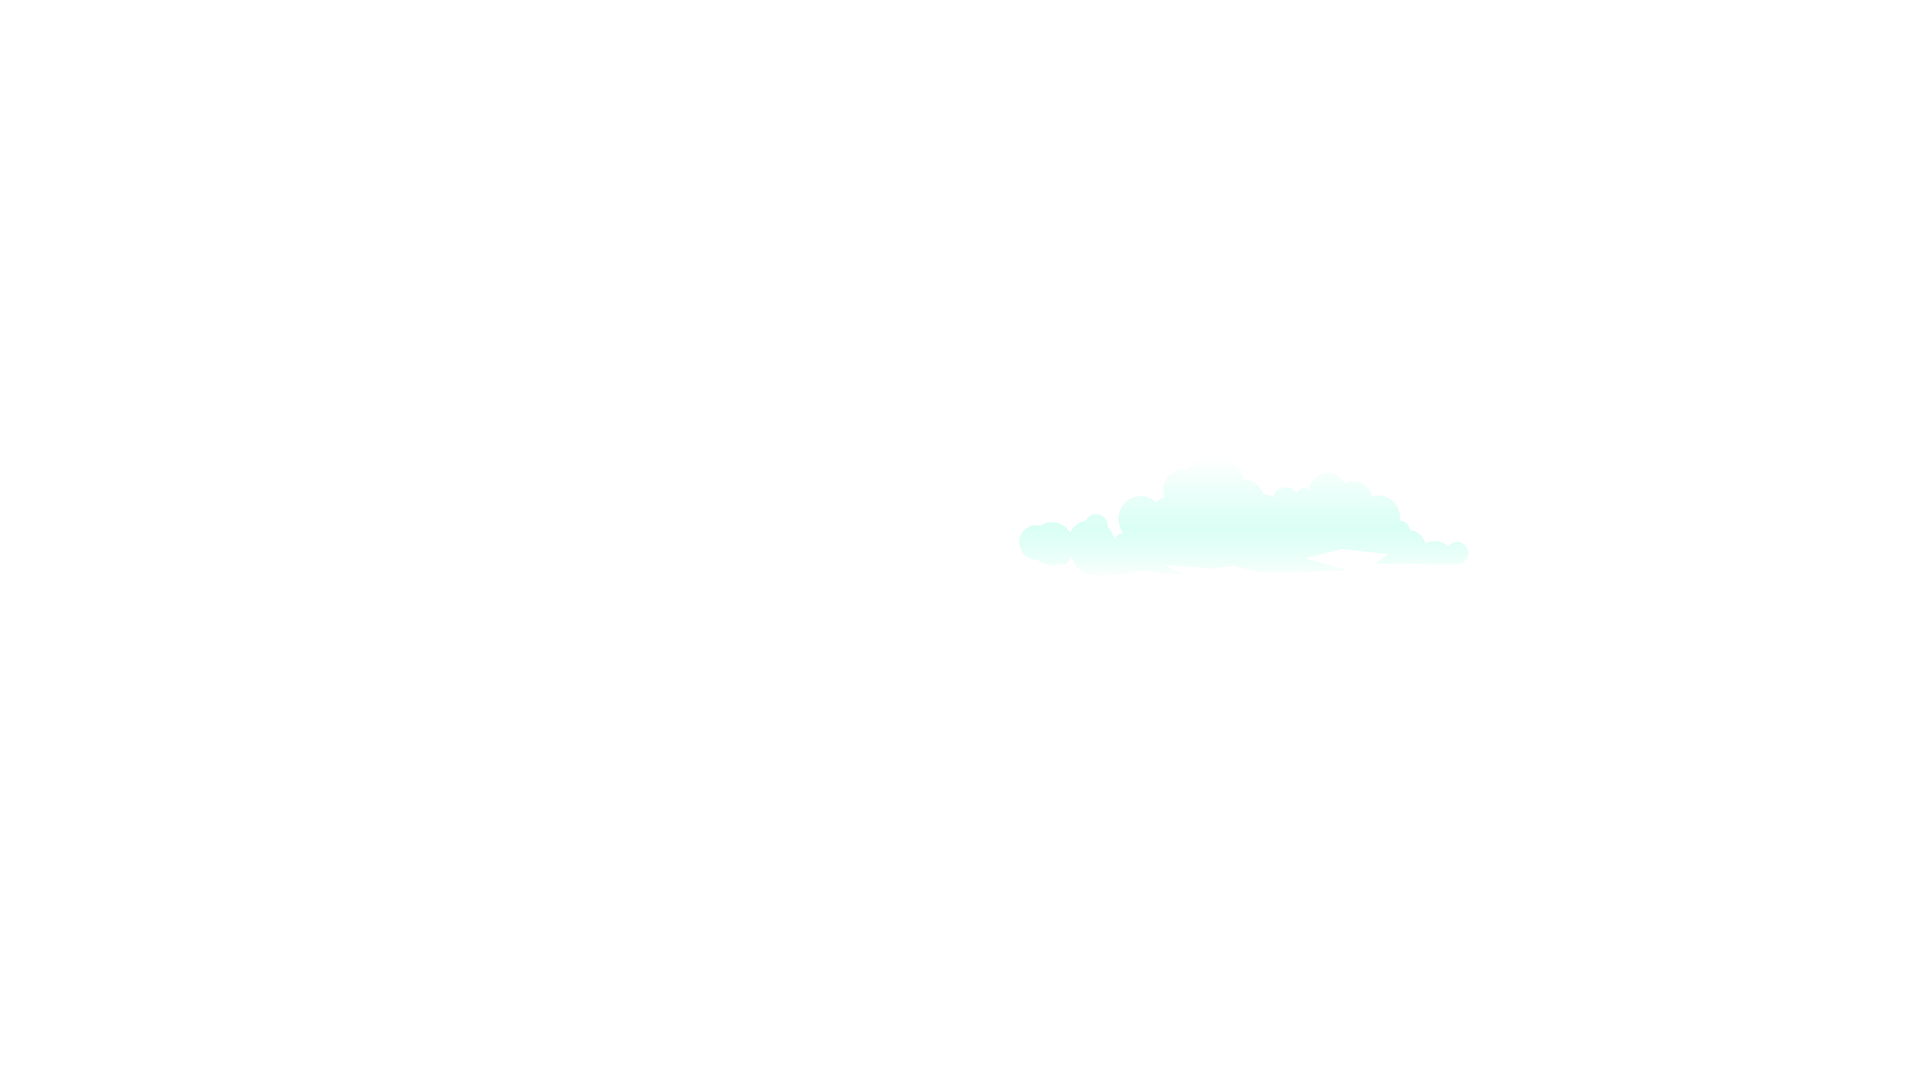
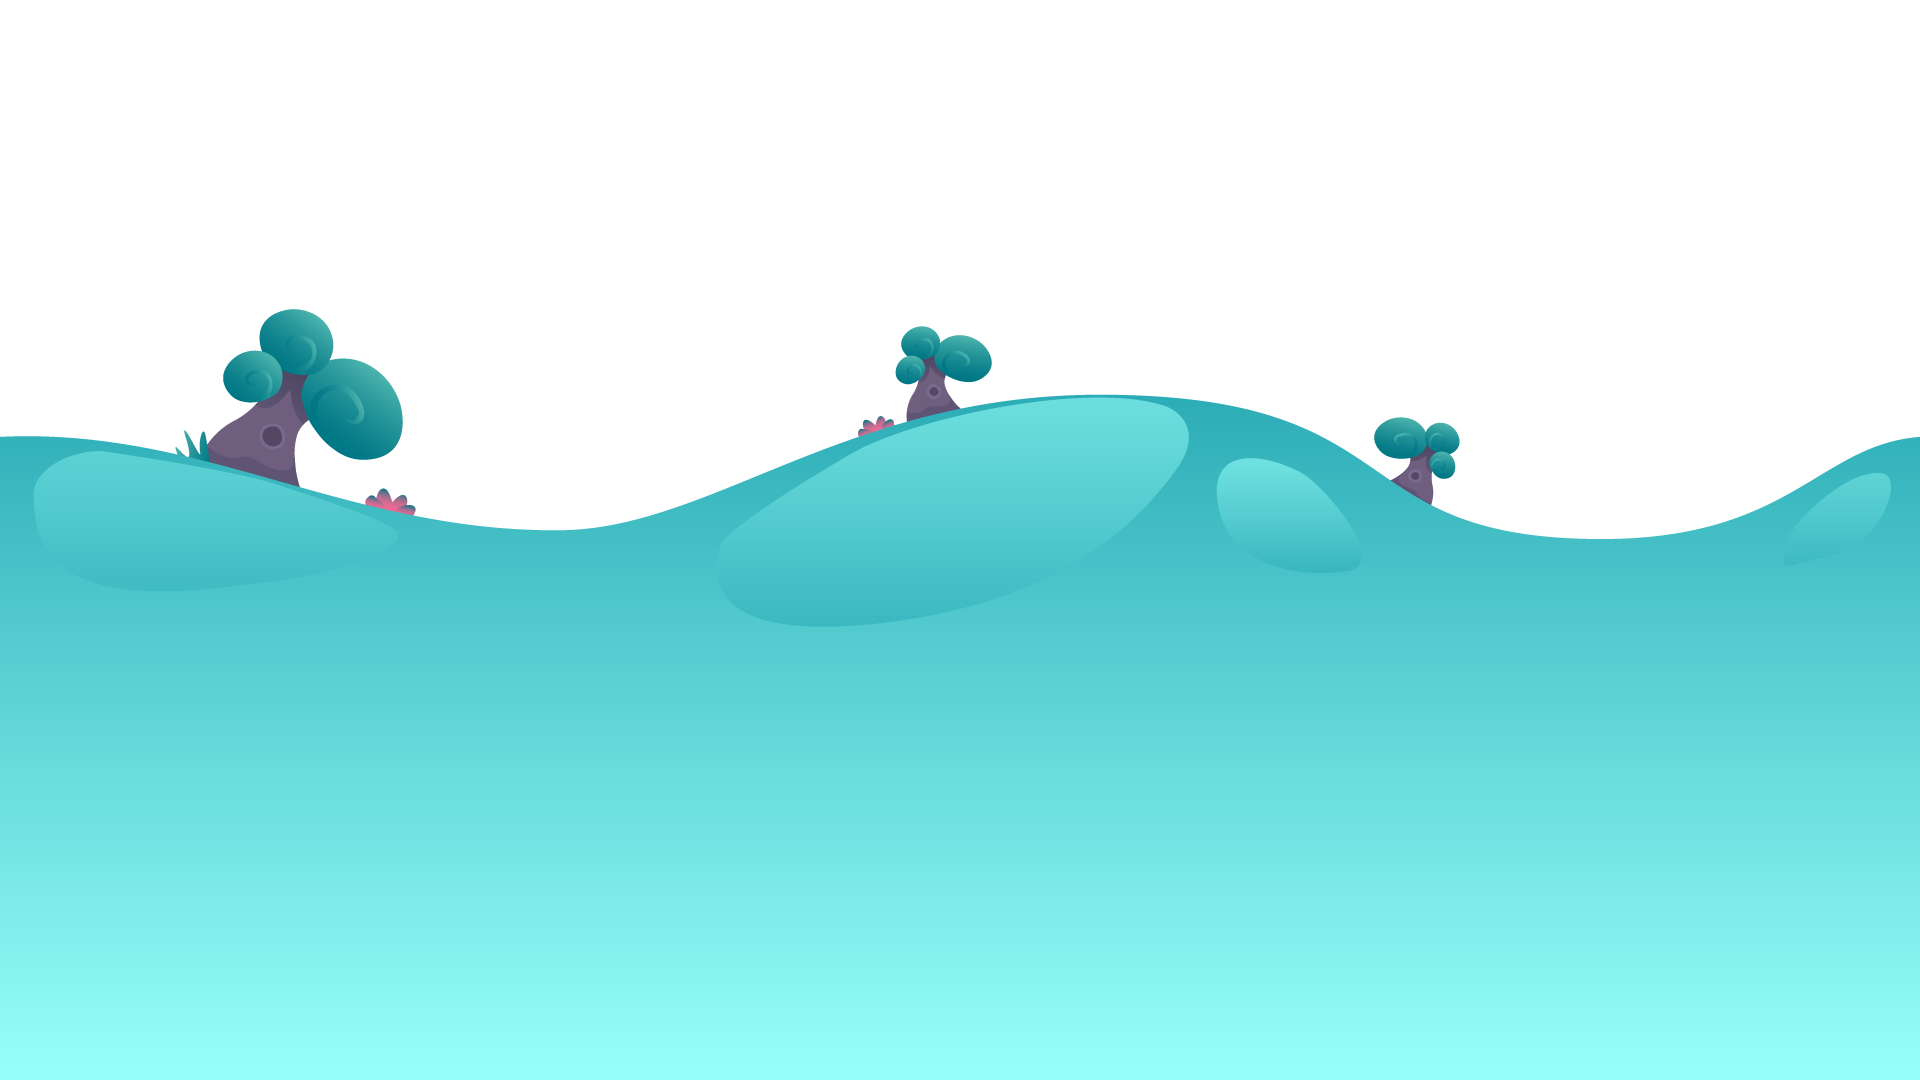
update

diff --git a/screens/stage2_background.c b/screens/stage2_background.c
@@ -8,7 +8,6 @@ static Texture2D bgTextureLayer4;
 static Texture2D bgTextureLayer5;
 static Texture2D bgTextureLayer6;
 static Texture2D bgTextureLayer7;
-static Texture2D bgTextureLayer8;
 
 static float scrollingLayer1 = 0.0f;
 static float scrollingLayer2 = 0.0f;
@@ -17,7 +16,6 @@ static float scrollingLayer4 = 0.0f;
 static float scrollingLayer5 = 0.0f;
 static float scrollingLayer6 = 0.0f;
 static float scrollingLayer7 = 0.0f;
-static float scrollingLayer8 = 0.0f;
 
 void InitStage2Background() {
   bgTextureLayer1 = LoadTexture("resources/images/backgrounds/stage2/layer1.png");
@@ -27,7 +25,6 @@ void InitStage2Background() {
   bgTextureLayer5 = LoadTexture("resources/images/backgrounds/stage2/layer5.png");
   bgTextureLayer6 = LoadTexture("resources/images/backgrounds/stage2/layer6.png");
   bgTextureLayer7 = LoadTexture("resources/images/backgrounds/stage2/layer7.png");
-  bgTextureLayer8 = LoadTexture("resources/images/backgrounds/stage2/layer8.png");
 }
 
 void UpdateStage2Background() {
@@ -38,7 +35,6 @@ void UpdateStage2Background() {
   scrollingLayer5 -= 1.0f;
   scrollingLayer6 -= 1.2f;
   scrollingLayer7 -= 1.4f;
-  scrollingLayer8 -= 1.6f;
 
   if (scrollingLayer1 <= -bgTextureLayer1.width)
     scrollingLayer1 = 0;
@@ -54,58 +50,50 @@ void UpdateStage2Background() {
     scrollingLayer6 = 0;
   if (scrollingLayer7 <= -bgTextureLayer7.width)
     scrollingLayer7 = 0;
-  if (scrollingLayer8 <= -bgTextureLayer8.width)
-    scrollingLayer8 = 0;
 }
 
 void DrawStage2Background() {
   DrawTextureEx(bgTextureLayer1, (Vector2){scrollingLayer1, 0}, 0.0f, 1.0f,
-                WHITE);
+                GRAY);
   DrawTextureEx(bgTextureLayer1,
                 (Vector2){bgTextureLayer1.width + scrollingLayer1, 0}, 0.0f,
-                1.0f, WHITE);
+                1.0f, GRAY);
 
   DrawTextureEx(bgTextureLayer2, (Vector2){scrollingLayer2, 0}, 0.0f, 1.0f,
-                WHITE);
+                GRAY);
   DrawTextureEx(bgTextureLayer2,
                 (Vector2){bgTextureLayer2.width + scrollingLayer2, 0}, 0.0f,
-                1.0f, WHITE);
+                1.0f, GRAY);
 
   DrawTextureEx(bgTextureLayer3, (Vector2){scrollingLayer3, 0}, 0.0f, 1.0f,
-                WHITE);
+                GRAY);
   DrawTextureEx(bgTextureLayer3,
                 (Vector2){bgTextureLayer3.width + scrollingLayer3, 0}, 0.0f,
-                1.0f, WHITE);
+                1.0f, GRAY);
 
   DrawTextureEx(bgTextureLayer4, (Vector2){scrollingLayer4, 0}, 0.0f, 1.0f,
-                WHITE);
+                GRAY);
   DrawTextureEx(bgTextureLayer4,
                 (Vector2){bgTextureLayer4.width + scrollingLayer4, 0}, 0.0f,
-                1.0f, WHITE);
+                1.0f, GRAY);
 
   DrawTextureEx(bgTextureLayer5, (Vector2){scrollingLayer5, 0}, 0.0f, 1.0f,
-                WHITE);
+                GRAY);
   DrawTextureEx(bgTextureLayer5,
                 (Vector2){bgTextureLayer5.width + scrollingLayer5, 0}, 0.0f,
-                1.0f, WHITE);
+                1.0f, GRAY);
 
   DrawTextureEx(bgTextureLayer6, (Vector2){scrollingLayer6, 0}, 0.0f, 1.0f,
-                WHITE);
+                GRAY);
   DrawTextureEx(bgTextureLayer6,
                 (Vector2){bgTextureLayer6.width + scrollingLayer6, 0}, 0.0f,
-                1.0f, WHITE);
+                1.0f, GRAY);
 
   DrawTextureEx(bgTextureLayer7, (Vector2){scrollingLayer7, 0}, 0.0f, 1.0f,
-                WHITE);
+                GRAY);
   DrawTextureEx(bgTextureLayer7,
                 (Vector2){bgTextureLayer7.width + scrollingLayer7, 0}, 0.0f,
-                1.0f, WHITE);
-
-  DrawTextureEx(bgTextureLayer8, (Vector2){scrollingLayer8, 0}, 0.0f, 1.0f,
-                WHITE);
-  DrawTextureEx(bgTextureLayer8,
-                (Vector2){bgTextureLayer8.width + scrollingLayer8, 0}, 0.0f,
-                1.0f, WHITE);
+                1.0f, GRAY);
 }
 
 void UnloadStage2Background() {
@@ -116,5 +104,4 @@ void UnloadStage2Background() {
   UnloadTexture(bgTextureLayer5);
   UnloadTexture(bgTextureLayer6);
   UnloadTexture(bgTextureLayer7);
-  UnloadTexture(bgTextureLayer8);
 }
